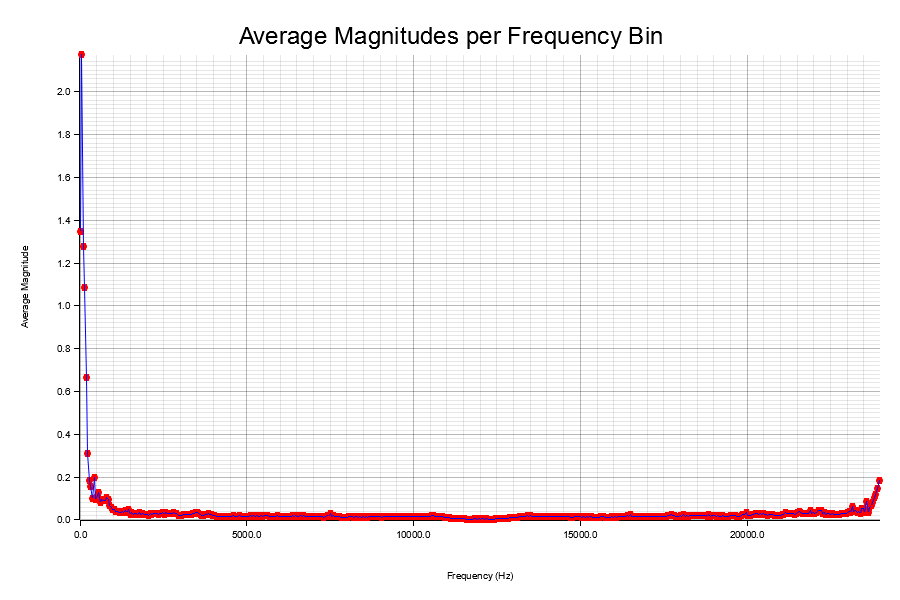
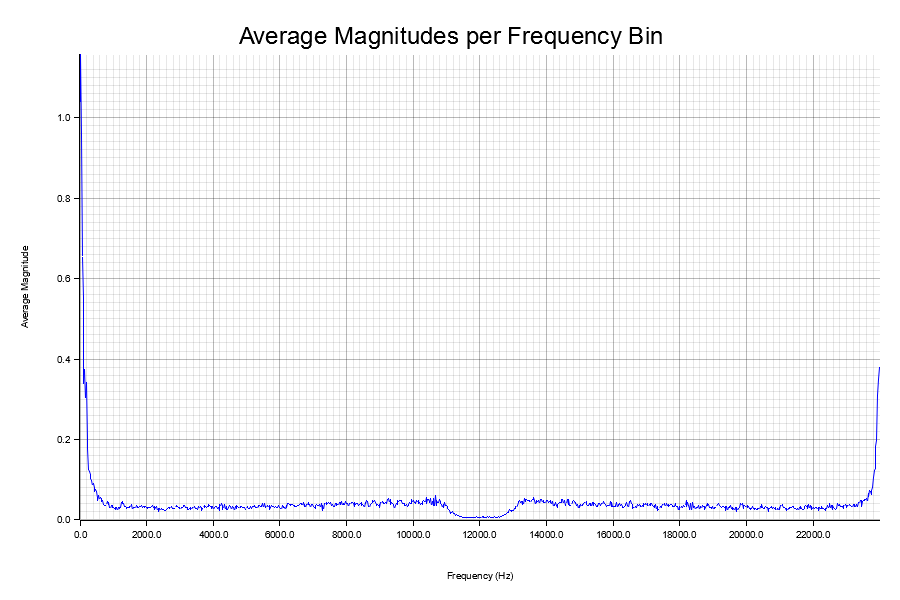
working note detection

Changed region(s): [[0.0622, 0.09, 0.9956, 0.9]]

diff --git a/src/main.rs b/src/main.rs
@@ -6,10 +6,23 @@ use std::{
     error::Error,
     f32::consts::PI,
     sync::{Arc, Mutex},
+    thread::sleep,
+    time::Duration,
 };
 
-static NOTES: [&str; 12] = [
-    "C", "C#", "D", "D#", "E", "F", "F#", "G", "G#", "A", "A#", "B",
+static NOTES: [(&str, f32); 12] = [
+    ("C", 261.63),
+    ("C#", 277.18),
+    ("D", 293.66),
+    ("D#", 311.13),
+    ("E", 329.63),
+    ("F", 349.23),
+    ("F#", 369.99),
+    ("G", 392.00),
+    ("G#", 415.30),
+    ("A", 440.00),
+    ("A#", 466.16),
+    ("B", 493.88),
 ];
 
 fn main() -> Result<(), Box<dyn Error>> {
@@ -17,16 +30,14 @@ fn main() -> Result<(), Box<dyn Error>> {
     let device = host
         .default_input_device()
         .expect("No input device available");
-    println!("Using input device: {}", device.name()?);
-
     let config = device.default_input_config()?;
-    println!("Default input config: {:?}", config);
-
     let sample_rate = config.sample_rate().0 as usize;
+    let window_size = 4096;
+    let hop_size = window_size / 2;
 
     let audio_data = Arc::new(Mutex::new(Vec::<f32>::new()));
-
     let audio_data_clone = audio_data.clone();
+
     let stream = device.build_input_stream(
         &config.into(),
         move |data: &[f32], _| {
@@ -36,71 +47,90 @@ fn main() -> Result<(), Box<dyn Error>> {
         move |err| eprintln!("Stream error: {:?}", err),
         None,
     )?;
-
     stream.play()?;
-    println!("Recording... Press Enter to stop.");
-    let mut input = String::new();
-    std::io::stdin().read_line(&mut input)?;
 
-    let buffer = audio_data.lock().unwrap();
-    println!("Recorded {} samples", buffer.len());
+    loop {
+        sleep(Duration::from_millis(10));
 
-    let window_size = 1024;
-    let hop_size = window_size / 2;
+        let mut buffer = audio_data.lock().unwrap();
+        if buffer.len() >= window_size {
+            let stft_frames = compute_short_time_fourier_transform(&buffer, window_size, hop_size);
 
-    let mut frequencies = Vec::new();
-
-    if buffer.len() >= window_size {
-        let stft_frames = compute_short_time_fourier_transform(&buffer, window_size, hop_size);
-
-        let frame_frequencies: Vec<f32> = (0..window_size / 2)
-            .map(|i| i as f32 * sample_rate as f32 / window_size as f32)
-            .collect();
-
-        for _ in 0..stft_frames.len() {
-            frequencies.push(frame_frequencies.clone());
-        }
-
-        // bin ranges and frequency magnitudes per bin per frame
-        let bin_ranges = compute_bin_ranges(sample_rate, window_size);
-        let frequency_magnitudes = stft_frames
-            .iter()
-            .map(|frame| {
-                frame[..window_size / 2]
-                    .iter()
-                    .map(|v| v.norm())
-                    .collect::<Vec<f32>>()
-            })
-            .collect::<Vec<Vec<f32>>>();
-
-        // average magnitudes per bin
-        let num_bins = frequency_magnitudes[0].len();
-        let num_frames = frequency_magnitudes.len();
-
-        let bin_centers: Vec<f32> = bin_ranges
-            .iter()
-            .map(|(low, high)| (low + high) / 2.0)
-            .collect();
-
-        let mut average_magnitudes_per_bin = vec![0.0f32; num_bins];
-        for frame in &frequency_magnitudes {
-            for (bin_idx, mag) in frame.iter().enumerate() {
-                average_magnitudes_per_bin[bin_idx] += *mag;
+            if stft_frames.is_empty() {
+                buffer.clear();
+                continue;
             }
-        }
 
-        for mag in &mut average_magnitudes_per_bin {
-            *mag /= num_frames as f32;
-        }
+            let frequency_magnitudes = stft_frames
+                .iter()
+                .map(|frame| {
+                    frame[..window_size / 2]
+                        .iter()
+                        .map(|v| v.norm())
+                        .collect::<Vec<f32>>()
+                })
+                .collect::<Vec<Vec<f32>>>();
 
-        plot_average_magnitudes_with_bins(&average_magnitudes_per_bin, &bin_centers)?;
+            let num_bins = frequency_magnitudes[0].len();
+            let num_frames = frequency_magnitudes.len();
+
+            let mut average_magnitudes_per_bin = vec![0.0f32; num_bins];
+            for frame in &frequency_magnitudes {
+                for (bin_idx, mag) in frame.iter().enumerate() {
+                    average_magnitudes_per_bin[bin_idx] += *mag;
+                }
+            }
+            for mag in &mut average_magnitudes_per_bin {
+                *mag /= num_frames as f32;
+            }
+
+            if let Some((strongest_bin_idx, _)) = average_magnitudes_per_bin
+                .iter()
+                .enumerate()
+                .max_by(|a, b| a.1.partial_cmp(b.1).unwrap_or(std::cmp::Ordering::Equal))
+            {
+                let freq_resolution = sample_rate as f32 / window_size as f32;
+                let dominant_freq = strongest_bin_idx as f32 * freq_resolution;
+
+                if let Some((note_name, note_freq)) = frequency_to_note(dominant_freq) {
+                    println!(
+                        "Detected note: {} ({:.2} Hz), Detected freq: {:.2} Hz",
+                        note_name, note_freq, dominant_freq
+                    );
+                }
+            }
+
+            // let bin_ranges = compute_bin_ranges(sample_rate, window_size);
+            // let bin_centers: Vec<f32> = bin_ranges
+            //     .iter()
+            //     .map(|(low, high)| (low + high) / 2.0)
+            //     .collect();
+
+            // plot_average_magnitudes_with_bins(&average_magnitudes_per_bin, &bin_centers)?;
+            buffer.drain(..hop_size); // Clear processed samples
+        }
     }
-
-    Ok(())
 }
 
-fn frequency_to_note(frequency: f32) -> String {
-    NOTES[(69.0 + 12.0 * (frequency / 440.0).log2()) as usize].to_string()
+fn frequency_to_note(freq: f32) -> Option<(String, f32)> {
+    if freq <= 0.0 {
+        return None;
+    }
+    let mut closest_note = None;
+    let mut min_diff = f32::MAX;
+    let mut closest_octave = 0;
+    for octave in 0..8 {
+        for (name, base_freq) in NOTES.iter() {
+            let note_freq = base_freq * 2f32.powi(octave - 4);
+            let diff = (freq - note_freq).abs();
+            if diff < min_diff {
+                min_diff = diff;
+                closest_note = Some((name, note_freq));
+                closest_octave = octave;
+            }
+        }
+    }
+    closest_note.map(|(name, note_freq)| (format!("{}{}", name, closest_octave), note_freq))
 }
 
 fn plot_average_magnitudes_with_bins(
@@ -131,17 +161,9 @@ fn plot_average_magnitudes_with_bins(
         .configure_mesh()
         .x_desc("Frequency (Hz)")
         .y_desc("Average Magnitude")
-        .x_labels(10)
+        .x_labels(20)
         .x_label_formatter(&|x| format!("{:.1}", x))
         .draw()?;
-
-    // Draw points
-    chart.draw_series(
-        average_magnitudes
-            .iter()
-            .zip(bin_centers.iter())
-            .map(|(mag, center)| Circle::new((*center, *mag), 3, RED.filled())),
-    )?;
 
     // Connect points with line
     chart.draw_series(LineSeries::new(
